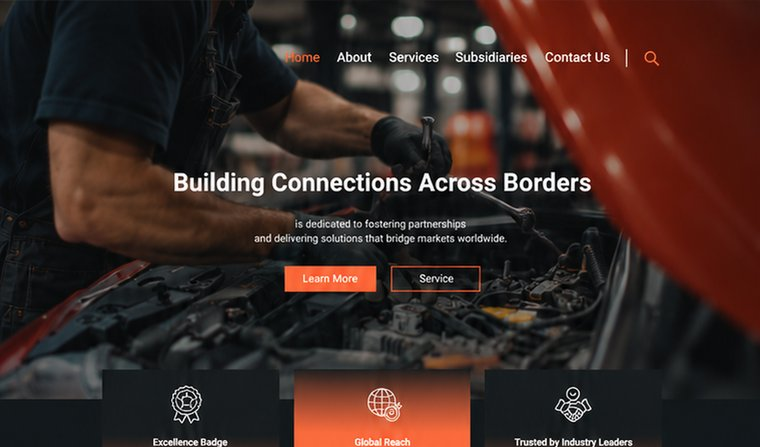
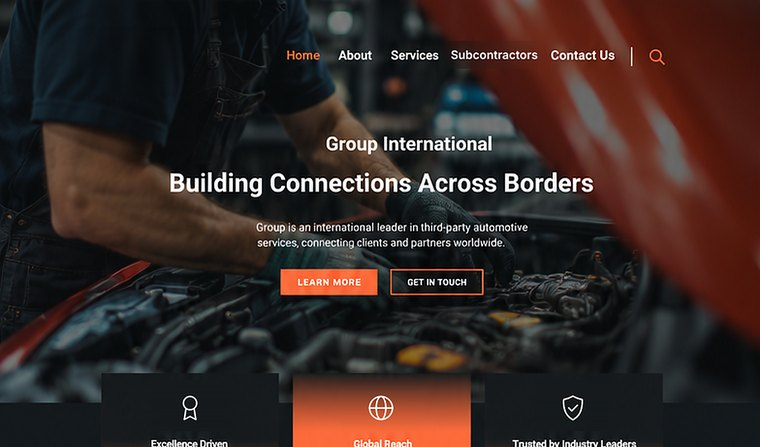
Add files via upload

diff --git a/index.html b/index.html
@@ -1,0 +1,333 @@
+<!doctype html>
+<html lang="en">
+<head>
+<meta charset="utf-8">
+<meta name="viewport" content="width=device-width, initial-scale=1, viewport-fit=cover">
+<title>Marita Doumit Kai · Graphic Designer</title>
+<meta name="description" content="Graphic design portfolio of Marita Doumit Kai: branding, presentations, social media, posters, menus and illustration.">
+<meta property="og:title" content="Marita Doumit Kai · Graphic Designer">
+<meta property="og:description" content="Branding, presentations, social media, posters, menus and illustration.">
+<meta property="og:image" content="img/p3.jpg">
+<style>
+@font-face{font-family:'Boldonse';src:url(fonts/Boldonse-Regular.ttf) format('truetype');font-weight:400;font-display:swap}
+@font-face{font-family:'Bricolage Grotesque';src:url(fonts/BricolageGrotesque-Bold.woff) format('woff');font-weight:600 800;font-display:swap}
+@font-face{font-family:'Bricolage Grotesque';src:url(fonts/BricolageGrotesque-Regular.woff) format('woff');font-weight:400 500;font-display:swap}
+@font-face{font-family:'Instrument Sans';src:url(fonts/InstrumentSans-Regular.woff) format('woff');font-weight:400 500;font-display:swap}
+@font-face{font-family:'Instrument Sans';src:url(fonts/InstrumentSans-Bold.woff) format('woff');font-weight:600 700;font-display:swap}
+/* Layout: one 12-column grid, one container edge, one 8px spacing scale.
+   Every block starts on the same left edge; cards share one frame ratio so rows line up exactly. */
+:root{
+  --paper:#111015; --surface:#1A1820; --surface2:#23202A; --ink:#F4EFF6; --soft:#A39BAA; --line:#2F2B37;
+  --accent:#B9A2FF; --hot:#FF8A5C; --wine:#8E2424;
+  --name:'Boldonse','Arial Black',system-ui,sans-serif;
+  --display:'Bricolage Grotesque','Arial Black',system-ui,sans-serif;
+  --body:'Instrument Sans',system-ui,-apple-system,'Segoe UI',sans-serif;
+  --max:1280px; --gut:clamp(20px,4vw,48px); --gap:24px;
+  --s1:8px; --s2:16px; --s3:24px; --s4:32px; --s6:48px; --s8:64px; --s12:96px; --s16:128px;
+  color-scheme:dark;
+}
+*{box-sizing:border-box}
+html{scroll-behavior:smooth}
+body{margin:0;background:var(--paper);color:var(--ink);font-family:var(--body);font-size:17px;line-height:1.55;-webkit-font-smoothing:antialiased}
+img{display:block;max-width:100%;height:auto}
+a{color:inherit}
+:focus-visible{outline:2px solid var(--accent);outline-offset:3px}
+.wrap{max-width:calc(var(--max) + 2*var(--gut));margin:0 auto;padding-left:max(var(--gut),env(safe-area-inset-left));padding-right:max(var(--gut),env(safe-area-inset-right))}
+.g12{display:grid;grid-template-columns:repeat(12,minmax(0,1fr));column-gap:var(--gap)}
+.eyebrow{font:500 13px var(--body);letter-spacing:.14em;text-transform:uppercase;color:var(--soft);margin:0}
+
+/* buttons */
+.btn{display:inline-flex;align-items:center;justify-content:center;gap:10px;height:48px;padding:0 24px;border-radius:999px;border:2px solid var(--ink);font:700 15px var(--display);letter-spacing:.01em;text-decoration:none;color:var(--ink);background:transparent;cursor:pointer;transition:transform .2s,box-shadow .2s,background .2s,color .2s;white-space:nowrap}
+.btn:hover{transform:translate(-2px,-2px);box-shadow:4px 4px 0 var(--accent)}
+.btn.fill{background:var(--ink);color:var(--paper)}
+.btn.accent{background:var(--accent);border-color:var(--accent);color:#111015}
+.btn.sm{height:40px;padding:0 18px;font-size:14px}
+
+/* nav */
+.nav{position:sticky;top:0;z-index:30;background:rgba(17,16,21,.85);backdrop-filter:blur(10px);-webkit-backdrop-filter:blur(10px)}
+.nav .wrap{display:flex;align-items:center;justify-content:space-between;height:72px}
+.logo{font:800 20px var(--display);letter-spacing:-.02em;text-decoration:none;display:flex;align-items:center;gap:10px}
+.logo i{width:14px;height:14px;border-radius:50%;background:var(--accent);display:inline-block}
+.menu{display:flex;align-items:center;gap:var(--s4)}
+.menu a:not(.btn){font:500 15px var(--body);text-decoration:none;color:var(--soft)}
+.menu a:not(.btn):hover{color:var(--ink)}
+
+/* hero */
+.hero{padding-block:var(--s8) var(--s12);overflow-x:clip}
+.hero .g12{align-items:center;row-gap:var(--s6)}
+.hero-copy{grid-column:1 / span 7}
+.hero-copy .eyebrow{margin-bottom:var(--s3)}
+h1{font:400 clamp(62px,7.2vw,108px)/1.3 var(--name);letter-spacing:0;margin:0 0 var(--s4);text-transform:uppercase}
+h1 .out{color:var(--accent)}
+.lede{font-size:clamp(18px,1.6vw,21px);color:var(--soft);max-width:34ch;margin:0 0 var(--s4)}
+.cta{display:flex;gap:var(--s2);flex-wrap:wrap}
+.hero-art{grid-column:9 / span 4;position:relative;aspect-ratio:1;width:100%}
+.blob{position:absolute;inset:0;background:var(--accent);border-radius:50%}
+@keyframes morph{50%{border-radius:42% 58% 55% 45% / 55% 44% 56% 45%}}
+.portrait{position:absolute;inset:0;clip-path:inset(-40% 0 0 0 round 0 0 50% 50%)}
+.portrait img{position:absolute;left:1%;bottom:-3%;width:98%}
+.sticker{position:absolute;right:-6%;top:-6%;width:36%;aspect-ratio:1;border-radius:50%;background:var(--hot);color:#111015;display:grid;place-items:center}
+.sticker svg{position:absolute;inset:0;width:100%;height:100%;animation:spin 18s linear infinite}
+.sticker b{font:800 clamp(18px,2vw,26px) var(--display)}
+@keyframes spin{to{transform:rotate(360deg)}}
+
+/* marquee */
+.band-wrap{overflow:hidden;padding-block:12px}
+.band{background:var(--accent);color:#111015;overflow:hidden;white-space:nowrap;transform:rotate(-1.5deg);margin:0 -2%;border-block:0}
+.band .track{display:inline-flex;align-items:center;gap:var(--s4);padding:18px 0;font:800 clamp(22px,2.6vw,34px) var(--display);text-transform:uppercase;letter-spacing:-.01em;animation:slide 38s linear infinite}
+.band .track span{display:inline-flex;align-items:center;gap:var(--s4)}
+.band .track span::after{content:"";width:22px;height:22px;background:#111015;clip-path:polygon(50% 0,61% 39%,100% 50%,61% 61%,50% 100%,39% 61%,0 50%,39% 39%)}
+@keyframes slide{to{transform:translateX(-50%)}}
+
+/* sections */
+section{scroll-margin-top:72px}
+.head{display:flex;align-items:flex-end;justify-content:space-between;gap:var(--s3);flex-wrap:wrap;padding-block:var(--s16) var(--s4)}
+h2{font:800 clamp(40px,5.6vw,80px)/.95 var(--display);letter-spacing:-.04em;margin:0;text-transform:uppercase}
+.head .eyebrow{margin-bottom:var(--s2)}
+.count{font:500 15px var(--body);color:var(--soft);font-variant-numeric:tabular-nums}
+
+/* filters */
+.note{margin:calc(-1*var(--s3)) 0 var(--s6);padding:var(--s2) var(--s3);border-left:3px solid var(--accent);background:var(--surface);border-radius:0 12px 12px 0;color:var(--soft);font-size:15px;max-width:72ch}
+.note[hidden]{display:none}
+.vnote{margin:0;color:var(--soft);font-size:15px;padding:var(--s2) var(--s3);border-left:3px solid var(--accent);background:var(--surface);border-radius:0 12px 12px 0;max-width:72ch}
+.toolbar{display:flex;justify-content:space-between;align-items:center;gap:var(--s2);flex-wrap:wrap;margin-bottom:var(--s6)}
+.filters{display:flex;flex-wrap:wrap;gap:var(--s1)}
+.chip{height:40px;padding:0 18px;border-radius:999px;border:2px solid var(--line);background:transparent;font:700 14px var(--display);color:var(--ink);cursor:pointer;transition:background .2s}
+.chip:hover{border-color:var(--ink)}
+.chip[aria-pressed="true"]{background:var(--ink);border-color:var(--ink);color:var(--paper)}
+
+/* cards */
+.grid{display:grid;grid-template-columns:repeat(3,minmax(0,1fr));gap:var(--s6) var(--gap)}
+.card{display:flex;flex-direction:column;gap:var(--s2);background:none;border:0;padding:0;margin:0;text-align:left;font:inherit;color:inherit;cursor:pointer}
+.card[hidden]{display:none}
+.next{display:flex;flex-direction:column;justify-content:space-between;gap:var(--s3);border-radius:20px;border:2px dashed var(--line);padding:var(--s4);text-decoration:none;min-height:100%;background:repeating-linear-gradient(-45deg,transparent 0 14px,rgba(185,162,255,.06) 14px 28px)}
+.next b{font:700 clamp(28px,3vw,44px)/1 var(--display);letter-spacing:-.03em;max-width:12ch}
+.next span{font-size:15px;color:var(--soft)}
+.next .btn{align-self:flex-start}
+.next:hover{border-color:var(--accent)}
+.next:hover .btn{background:var(--accent);border-color:var(--accent);color:#111015;transform:translate(-2px,-2px)}
+.frame{position:relative;aspect-ratio:3/2;border-radius:20px;border:2px solid var(--line);background:var(--surface);overflow:hidden;display:grid;place-items:center;padding:7%;transition:transform .3s cubic-bezier(.2,.8,.2,1),box-shadow .3s}
+.frame img{max-width:100%;max-height:100%;width:auto;height:auto;object-fit:contain;border-radius:6px;box-shadow:0 14px 30px rgba(0,0,0,.45)}
+.card:hover .frame{transform:translate(-4px,-4px) rotate(-.6deg);border-color:var(--accent);box-shadow:8px 8px 0 var(--accent)}
+.pill{position:absolute;left:14px;top:14px;height:28px;padding:0 12px;border-radius:999px;background:var(--paper);border:2px solid var(--line);color:var(--soft);font:700 12px/24px var(--display);letter-spacing:.02em}
+.meta{display:flex;justify-content:space-between;align-items:flex-start;gap:var(--s2)}
+.card .t{display:block;font:700 21px/1.2 var(--display);letter-spacing:-.01em}
+.card .d{display:block;margin-top:4px;font-size:15px;color:var(--soft)}
+.arrow{flex:none;width:40px;height:40px;border-radius:50%;border:2px solid var(--line);display:grid;place-items:center;font-size:18px;transition:background .2s,transform .3s}
+.card:hover .arrow{background:var(--accent);border-color:var(--accent);color:#111015;transform:rotate(-45deg)}
+
+/* about */
+.about{margin-top:var(--s16);background:var(--surface);color:var(--ink);border-block:2px solid var(--line)}
+.about .g12{padding-block:var(--s16);row-gap:var(--s6)}
+.about h2{grid-column:1 / span 5;color:var(--ink)}
+.about h2 em{font-style:normal;color:var(--accent)}
+.about-body{grid-column:7 / span 6}
+.about-body p{margin:0 0 var(--s3);font-size:19px;color:#CFC7D4;max-width:52ch}
+.ph{display:inline-block;background:var(--hot);color:#111015;border-radius:8px;padding:0 8px;font-weight:500}
+.tags{display:flex;flex-wrap:wrap;gap:var(--s1);margin-top:var(--s4)}
+.tags span{height:36px;padding:0 16px;display:inline-flex;align-items:center;border-radius:999px;border:2px solid var(--line);font:500 14px var(--body);color:var(--ink)}
+.stats{grid-column:1 / -1;display:grid;grid-template-columns:repeat(3,minmax(0,1fr));gap:var(--gap);border-top:2px solid var(--line);padding-top:var(--s6)}
+.stats b{display:block;font:800 clamp(48px,6vw,88px)/1 var(--display);letter-spacing:-.04em;color:var(--accent)}
+.stats span{font-size:15px;color:var(--soft)}
+
+/* contact */
+.contact .g12{padding-block:var(--s16) var(--s12);row-gap:var(--s6);align-items:end}
+.contact h2{grid-column:1 / span 7;font-size:clamp(48px,8vw,120px)}
+.contact h2 .out{color:#111015;background:var(--accent);padding:0 .12em;border-radius:.12em;box-decoration-break:clone;-webkit-box-decoration-break:clone}
+.clist{grid-column:9 / span 4;display:grid;gap:0}
+.row{display:flex;justify-content:space-between;align-items:center;gap:var(--s2);min-height:56px;border-bottom:2px solid var(--line)}
+.row:first-child{border-top:2px solid var(--line)}
+.row span{font:500 13px var(--body);letter-spacing:.14em;text-transform:uppercase;color:var(--soft)}
+.row b,.row .val{font:700 16px var(--display);text-align:right;overflow-wrap:anywhere}
+.row .val{text-decoration:none;color:var(--ink)}
+.row .val:hover{color:var(--accent)}
+.clist .btn{margin-top:var(--s3);justify-self:start}
+footer .in{display:flex;justify-content:space-between;gap:var(--s2);flex-wrap:wrap;padding-block:var(--s3) var(--s6);font-size:14px;color:var(--soft);border-top:2px solid var(--line)}
+
+/* project viewer */
+.viewer{position:fixed;inset:0;z-index:60;background:var(--paper);overflow:auto;overscroll-behavior:contain}
+.viewer[hidden]{display:none}
+.vbar{position:sticky;top:0;z-index:2;background:rgba(17,16,21,.92);backdrop-filter:blur(10px);-webkit-backdrop-filter:blur(10px);border-bottom:2px solid var(--line)}
+.vbar .wrap{display:flex;justify-content:space-between;align-items:center;gap:var(--s2);min-height:80px}
+.vbar h3{font:800 clamp(20px,2.4vw,28px)/1.1 var(--display);letter-spacing:-.02em;margin:0}
+.vbar h3 small{display:block;font:400 14px var(--body);color:var(--soft);letter-spacing:0;margin-top:4px}
+.vctl{display:flex;gap:var(--s1)}
+.round{width:44px;height:44px;border-radius:50%;border:2px solid var(--line);background:transparent;font:700 18px var(--display);color:var(--ink);cursor:pointer}
+.round:hover{background:var(--accent);border-color:var(--accent);color:#111015}
+.vbody .wrap{display:grid;gap:var(--s4);padding-block:var(--s6) var(--s12)}
+.vbody img{width:100%;border-radius:16px;border:2px solid var(--line)}
+.vnext{display:grid;grid-template-columns:1fr 1fr;gap:var(--gap);padding-top:var(--s4);border-top:2px solid var(--line)}
+.vnext button{background:none;border:0;padding:0;font:inherit;color:var(--ink);cursor:pointer;text-align:left;display:flex;flex-direction:column;align-items:flex-start;justify-content:flex-start}
+.vnext button:last-child{text-align:right;align-items:flex-end}
+.vnext span{display:block;font:500 13px var(--body);letter-spacing:.14em;text-transform:uppercase;color:var(--soft);margin-bottom:6px}
+.vnext b{font:800 clamp(20px,2.4vw,30px) var(--display);letter-spacing:-.02em}
+
+@media (max-width:1024px){
+  .grid{grid-template-columns:repeat(2,minmax(0,1fr))}
+  .hero-copy{grid-column:1 / -1}
+  .hero-art{grid-column:1 / span 7;max-width:420px}
+  .about h2,.about-body,.contact h2,.clist{grid-column:1 / -1}
+}
+@media (max-width:640px){
+  :root{--gap:16px}
+  .grid{grid-template-columns:1fr}
+  .menu a:not(.btn){display:none}
+  .hero{padding-block:var(--s4) var(--s8)}
+  .hero-art{grid-column:1 / -1;max-width:340px;margin-left:8px}
+  h1{font-size:11.5vw}
+  .head{padding-block:var(--s12) var(--s3)}
+  .about .g12,.contact .g12{padding-block:var(--s12)}
+  .stats{grid-template-columns:repeat(3,minmax(0,1fr))}
+}
+@media (prefers-reduced-motion:reduce){*{animation:none!important;transition:none!important;scroll-behavior:auto!important}}
+</style>
+</head>
+<body>
+
+<header class="nav"><div class="wrap">
+  <a class="logo" href="#top"><i></i>Marita Doumit Kai</a>
+  <nav class="menu" aria-label="Main">
+    <a href="#work">Work</a><a href="#about">About</a><a href="#contact">Contact</a>
+    <a class="btn sm" href="Marita_Kai_Portfolio.pdf" download>Download PDF</a>
+  </nav>
+</div></header>
+
+<main id="top">
+  <section class="hero"><div class="wrap g12">
+    <div class="hero-copy">
+      <p class="eyebrow">Graphic designer · Presentations · Branding · Web &amp; UI</p>
+      <h1>Portfolio</h1>
+      <p class="lede">I design presentations, pitch decks, brands and web pages that look sharp at first glance and hold up on a closer look.</p>
+      <div class="cta"><a class="btn fill" href="#work">See the work ↓</a><a class="btn accent" href="#contact">Let's talk</a></div>
+    </div>
+    <div class="hero-art">
+      <div class="blob"></div>
+      <div class="portrait"><img src="img/hero.png" alt="Illustrated self-portrait of Marita with curly red hair" width="1000" height="726"></div>
+      <div class="sticker" aria-hidden="true">
+        <svg viewBox="0 0 100 100"><defs><path id="c" d="M50 50 m-38 0 a38 38 0 1 1 76 0 a38 38 0 1 1 -76 0"/></defs><text font-family="Bricolage Grotesque" font-weight="700" font-size="13" letter-spacing="0" fill="#111015"><textPath href="#c" textLength="234" lengthAdjust="spacing">OPEN FOR FREELANCE ✦</textPath></text></svg>
+        <b>✦</b>
+      </div>
+    </div>
+  </div></section>
+
+  <div class="band-wrap" aria-hidden="true"><div class="band"><div class="track" id="track"></div></div></div>
+
+  <section id="work" class="wrap">
+    <div class="head"><div><p class="eyebrow">Selected projects</p><h2>The work</h2></div></div>
+    <div class="toolbar"><div class="filters" role="group" aria-label="Filter projects" id="filters"></div><span class="count" id="count" aria-live="polite"></span></div>
+    <p class="note" id="agencyNote" hidden>Agency projects are team efforts. I was the main designer on these, working alongside other designers, copywriters and the client to reach the final result.</p>
+    <div class="grid" id="grid"></div>
+  </section>
+
+  <section id="about" class="about"><div class="wrap g12">
+    <h2>Hi, I'm <em>Marita.</em></h2>
+    <div class="about-body">
+      <p>I'm a graphic designer based in Beirut, Lebanon, and presentations are at the heart of what I do. Over five years I've designed pitch decks, corporate and annual reports, training content and company presentations that turn complex ideas into clear, confident slides people actually want to read.</p>
+      <p>Alongside presentations, I work across brand identity, web and UI design, social media and illustration. I've worked in creative agencies with designers and content creators, at an e-learning company, and as a freelancer for clinics, cosmetics brands, interior studios, restaurants and tech companies.</p>
+      <p>I like work that is clear at first glance, bold in its choices and a little unexpected. I'm open to freelance projects, from a single pitch deck or company presentation to a full brand identity.</p>
+      <div class="tags"><span>Presentation design</span><span>Pitch decks</span><span>Reports</span><span>Brand identity</span><span>Web &amp; UI design</span><span>Social media</span><span>Posters</span><span>Menus</span><span>Illustration</span><span>PowerPoint</span><span>Illustrator</span><span>Photoshop</span><span>InDesign</span></div>
+    </div>
+    <div class="stats">
+      <div><b>5+</b><span>years designing</span></div>
+      <div><b id="projN">31</b><span>projects here</span></div>
+      <div><b>8</b><span>disciplines</span></div>
+    </div>
+  </div></section>
+
+  <section id="contact" class="contact"><div class="wrap g12">
+    <h2>Let's make<br><span class="out">something</span><br>good.</h2>
+    <div class="clist">
+      <div class="row"><span>Email</span><a class="val" href="mailto:maritakai2001@gmail.com">maritakai2001@gmail.com</a></div>
+      <div class="row"><span>LinkedIn</span><a class="val" href="https://www.linkedin.com/in/marita-kai-9258a8235" target="_blank" rel="noopener">marita-kai ↗</a></div>
+      <div class="row"><span>Based in</span><b>Beirut, Lebanon</b></div>
+      <a class="btn fill" href="Marita_Kai_Portfolio.pdf" download>Download full portfolio</a>
+    </div>
+  </div></section>
+</main>
+
+<footer><div class="wrap"><div class="in"><span>© 2026 Marita Doumit Kai</span><span>Projects marked "concept" are self-initiated.</span></div></div></footer>
+
+<div class="viewer" id="viewer" role="dialog" aria-modal="true" aria-labelledby="vTitle" hidden>
+  <div class="vbar"><div class="wrap">
+    <h3 id="vTitle"></h3>
+    <div class="vctl"><button class="round" id="vPrev" type="button" aria-label="Previous project">←</button><button class="round" id="vNext" type="button" aria-label="Next project">→</button><button class="round" id="vClose" type="button" aria-label="Close project">✕</button></div>
+  </div></div>
+  <div class="vbody"><div class="wrap" id="vBody"></div></div>
+</div>
+
+<script>
+const P=[
+ {t:'Nocturne',s:'Art exhibition deck, dark mode · concept',c:'Presentations',p:[3]},
+ {t:'Velvet Alibi',s:'Noir film moodboard · concept',c:'Presentations',p:[4]},
+ {t:'Still Water',s:'Drama film pitch deck · concept',c:'Presentations',p:[5]},
+ {t:'Solara Grid',s:'Corporate strategy deck · concept',c:'Presentations',p:[6,7]},
+ {t:'Harvestly',s:'Startup pitch deck · concept',c:'Presentations',p:[8]},
+ {t:'Meridian Logistics',s:'Annual review report · concept',c:'Presentations',p:[9]},
+ {t:'Aura Workspace',s:'Company portal homepage · two colourways',c:'Web & UI Design',p:[50,51]},
+ {t:'Automotive Group Website',s:'Corporate website homepage',c:'Web & UI Design',p:[52],mw:1176},
+ {t:'Aitic',s:'Full branding · electromechanical company',c:'Agency Work',p:[13]},
+ {t:'Ayache Interior Solutions',s:'Full branding & social media',c:'Agency Work',p:[14]},
+ {t:'La Vie',s:'Branding, packaging & social · cosmetics',c:'Agency Work',p:[15]},
+ {t:'Dr. Sara Zougheib',s:'Dental clinic branding & social',c:'Agency Work',p:[16]},
+ {t:'Additional Logos',s:'Logo & branding collection',c:'Agency Work',p:[17]},
+ {t:'Acatemy',s:'Full project · campus cat housing',c:'Branding',p:[19,20,21]},
+ {t:'Logo Re-design',s:'Identity refresh',c:'Branding',p:[23]},
+ {t:'Bowling Infographics',s:'Re-design & event timeline',c:'Branding',p:[24,25]},
+ {t:'Brazilian Restaurant',s:'Logo & brand design',c:'Branding',p:[26]},
+ {t:'Noor',s:'Logo design system',c:'Branding',p:[27]},
+ {t:'Social Media Re-design',s:'Feed redesign',c:'Social Media',p:[29]},
+ {t:'YouTube Channel',s:'Channel branding',c:'Social Media',p:[30]},
+ {t:'Beeleaf · Namliyeh · Munchies',s:'Social media content',c:'Social Media',p:[31]},
+ {t:'Kydline · Bleumarin · Mimoto',s:'Social media content',c:'Social Media',p:[32]},
+ {t:'Robbery Campaign',s:'Awareness campaign',c:'Social Media',p:[33,34]},
+ {t:'Campaign Posters',s:'Print campaign series',c:'Posters',p:[36,37]},
+ {t:'Film Posters: Noir',s:'Three thriller posters · concept',c:'Posters',p:[38]},
+ {t:'Film Posters: Drama',s:'Three drama posters · concept',c:'Posters',p:[39]},
+ {t:'Restaurant Menus',s:"Menu redesigns, incl. Anthony's · concept",c:'Menus',p:[41,42],n:'Self-initiated redesign: my approach to how I would design their menu. Not commissioned by or affiliated with the restaurant.'},
+ {t:'Sunny Side Club',s:'Digital QR menu · concept',c:'Menus',p:[43]},
+ {t:'Fan Art Commissions',s:'Digital portraits',c:'Illustration',p:[45]},
+ {t:'Personal Work',s:'Mixed media illustration',c:'Illustration',p:[46]},
+ {t:'Fan Art & Scenes',s:'Character and scene illustration',c:'Illustration',p:[47]},
+ {t:'Digital Art & Stickers',s:'Neon art and sticker set',c:'Illustration',p:[48]}
+];
+const CATS=['All','Presentations','Web & UI Design','Agency Work','Branding','Social Media','Posters','Menus','Illustration'];
+const $=s=>document.querySelector(s);
+$('#projN').textContent=P.length;
+const words=[...CATS.slice(1),'Brand identity','Packaging'];
+$('#track').innerHTML=[...words,...words].map(w=>`<span>${w}</span>`).join('');
+
+$('#grid').innerHTML=P.map((x,i)=>`<button class="card" type="button" data-i="${i}" data-c="${x.c}" aria-label="Open ${x.t}">
+  <span class="frame"><span class="pill">${x.c}</span><img src="thumbs/p${x.p[0]}.jpg" alt="" loading="${i<9?'eager':'lazy'}"></span>
+  <span class="meta"><span><span class="t">${x.t}</span><span class="d">${x.s}</span></span><span class="arrow" aria-hidden="true">→</span></span></button>`).join('');
+$('#grid').insertAdjacentHTML('beforeend','<a class="next" id="nextTile" href="#contact"><b>Your project could be next.</b><span>Presentations, branding, web, social, posters or illustration.</span><span class="btn sm">Start a project →</span></a>');
+function fitTile(){const g=$('#grid'),cols=getComputedStyle(g).gridTemplateColumns.split(' ').length,n=[...g.querySelectorAll('.card')].filter(c=>!c.hidden).length,r=n%cols;$('#nextTile').style.gridColumn=`span ${r?cols-r:cols}`}
+addEventListener('resize',fitTile);
+$('#filters').innerHTML=CATS.map(c=>`<button class="chip" type="button" data-c="${c}" aria-pressed="${c==='All'}">${c}</button>`).join('');
+function filter(c){
+  document.querySelectorAll('.chip').forEach(b=>b.setAttribute('aria-pressed',b.dataset.c===c));
+  let n=0;document.querySelectorAll('.card').forEach(el=>{const s=c==='All'||el.dataset.c===c;el.hidden=!s;if(s)n++});
+  $('#count').textContent=`${n} project${n===1?'':'s'}`;fitTile();$('#agencyNote').hidden=c!=='Agency Work';
+}
+document.querySelectorAll('.chip').forEach(b=>b.onclick=()=>filter(b.dataset.c));
+filter('All');
+
+const viewer=$('#viewer');let cur=0,lastFocus=null;
+const vis=()=>[...document.querySelectorAll('.card')].filter(c=>!c.hidden).map(c=>+c.dataset.i);
+function open(i){
+  cur=i;const x=P[i],v=vis(),k=v.indexOf(i),prev=P[v[(k-1+v.length)%v.length]],next=P[v[(k+1)%v.length]];
+  $('#vTitle').innerHTML=`${x.t}<small>${x.s}</small>`;
+  $('#vBody').innerHTML=(x.c==='Agency Work'?'<p class="vnote">Team project: I was the main designer, working with other designers, copywriters and the client on the final outcome.</p>':'')+(x.n?`<p class="vnote">${x.n}</p>`:'')+x.p.map(n=>`<img src="img/p${n}.jpg" alt="${x.t}"${x.mw?` style="max-width:${x.mw}px;justify-self:center"`:''}>`).join('')+
+   `<div class="vnext"><button type="button" id="goP"><span>← Previous</span><b>${prev.t}</b></button><button type="button" id="goN"><span>Next →</span><b>${next.t}</b></button></div>`;
+  $('#goP').onclick=()=>step(-1);$('#goN').onclick=()=>step(1);
+  if(viewer.hidden){lastFocus=document.activeElement;viewer.hidden=false;document.body.style.overflow='hidden'}
+  viewer.scrollTop=0;$('#vClose').focus();history.replaceState(null,'','#p'+(i+1));
+}
+function step(d){const v=vis(),k=v.indexOf(cur);open(v[(k+d+v.length)%v.length])}
+function close(){viewer.hidden=true;document.body.style.overflow='';history.replaceState(null,'','#work');lastFocus&&lastFocus.focus()}
+$('#grid').addEventListener('click',e=>{const c=e.target.closest('.card');if(c)open(+c.dataset.i)});
+$('#vClose').onclick=close;$('#vPrev').onclick=()=>step(-1);$('#vNext').onclick=()=>step(1);
+document.addEventListener('keydown',e=>{if(viewer.hidden)return;if(e.key==='Escape')close();if(e.key==='ArrowRight')step(1);if(e.key==='ArrowLeft')step(-1)});
+const m=location.hash.match(/^#p(\d+)$/);if(m&&P[m[1]-1])open(m[1]-1);
+</script>
+</body>
+</html>
